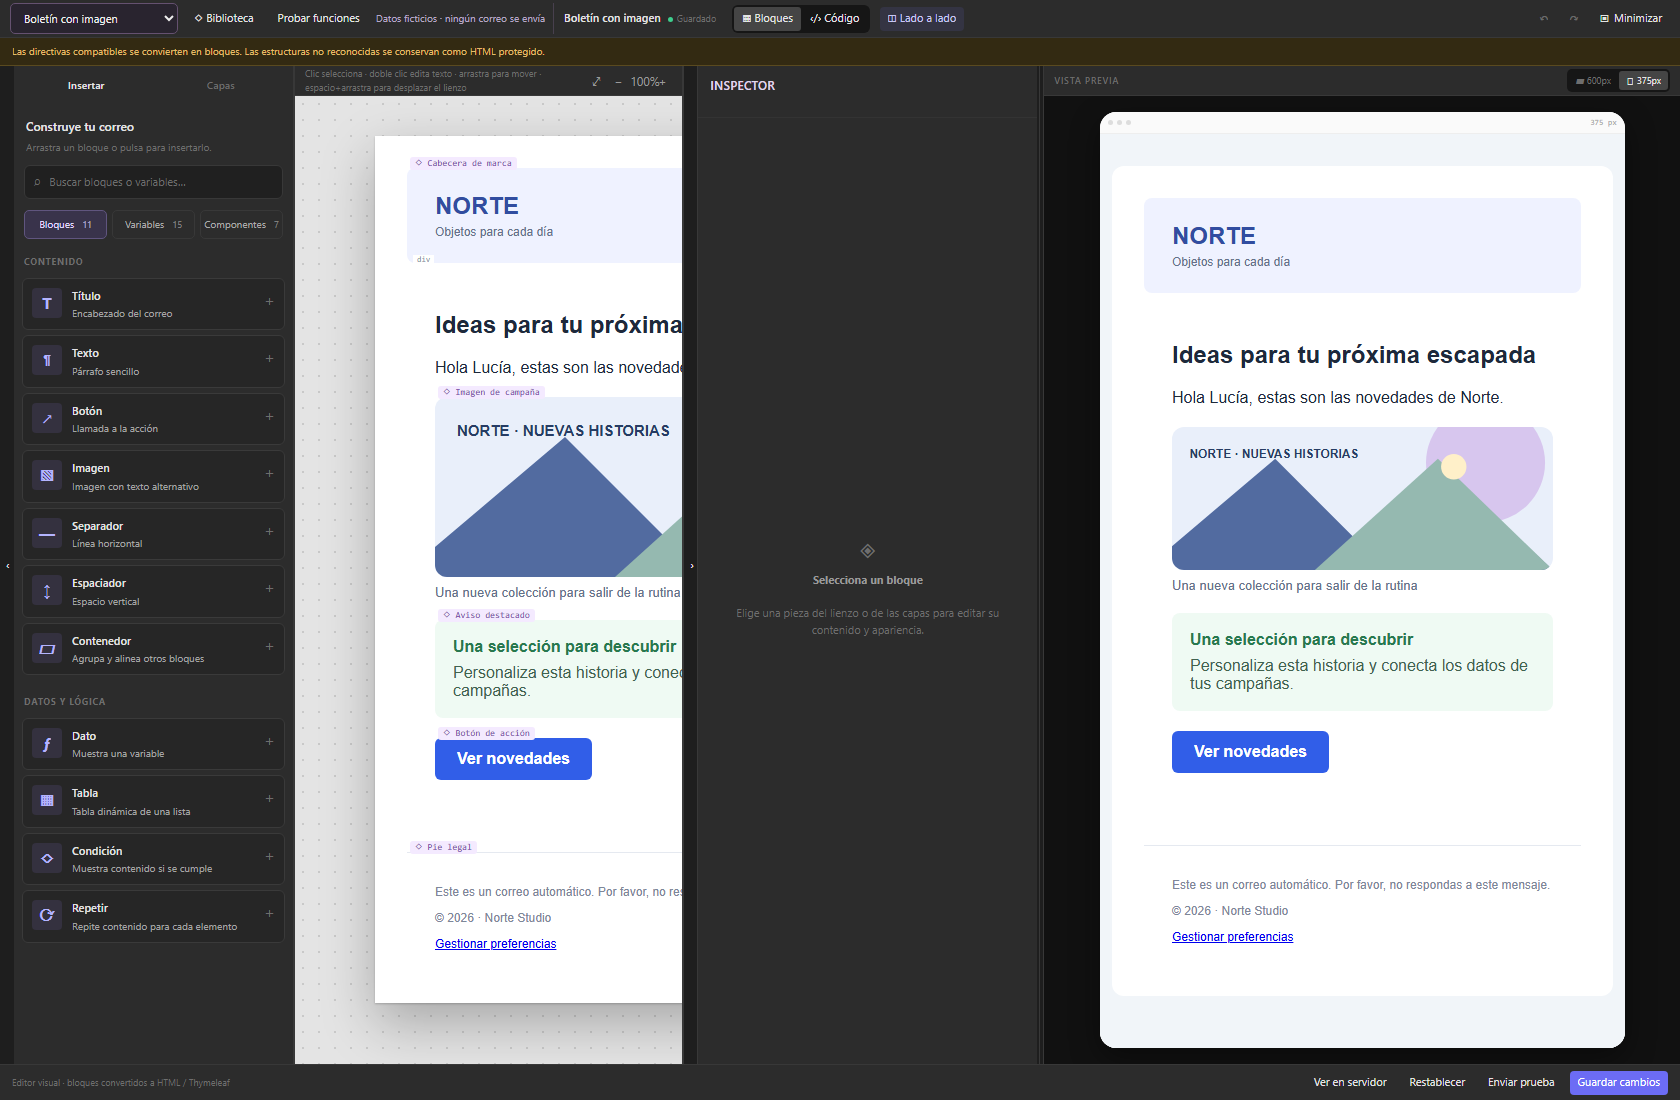
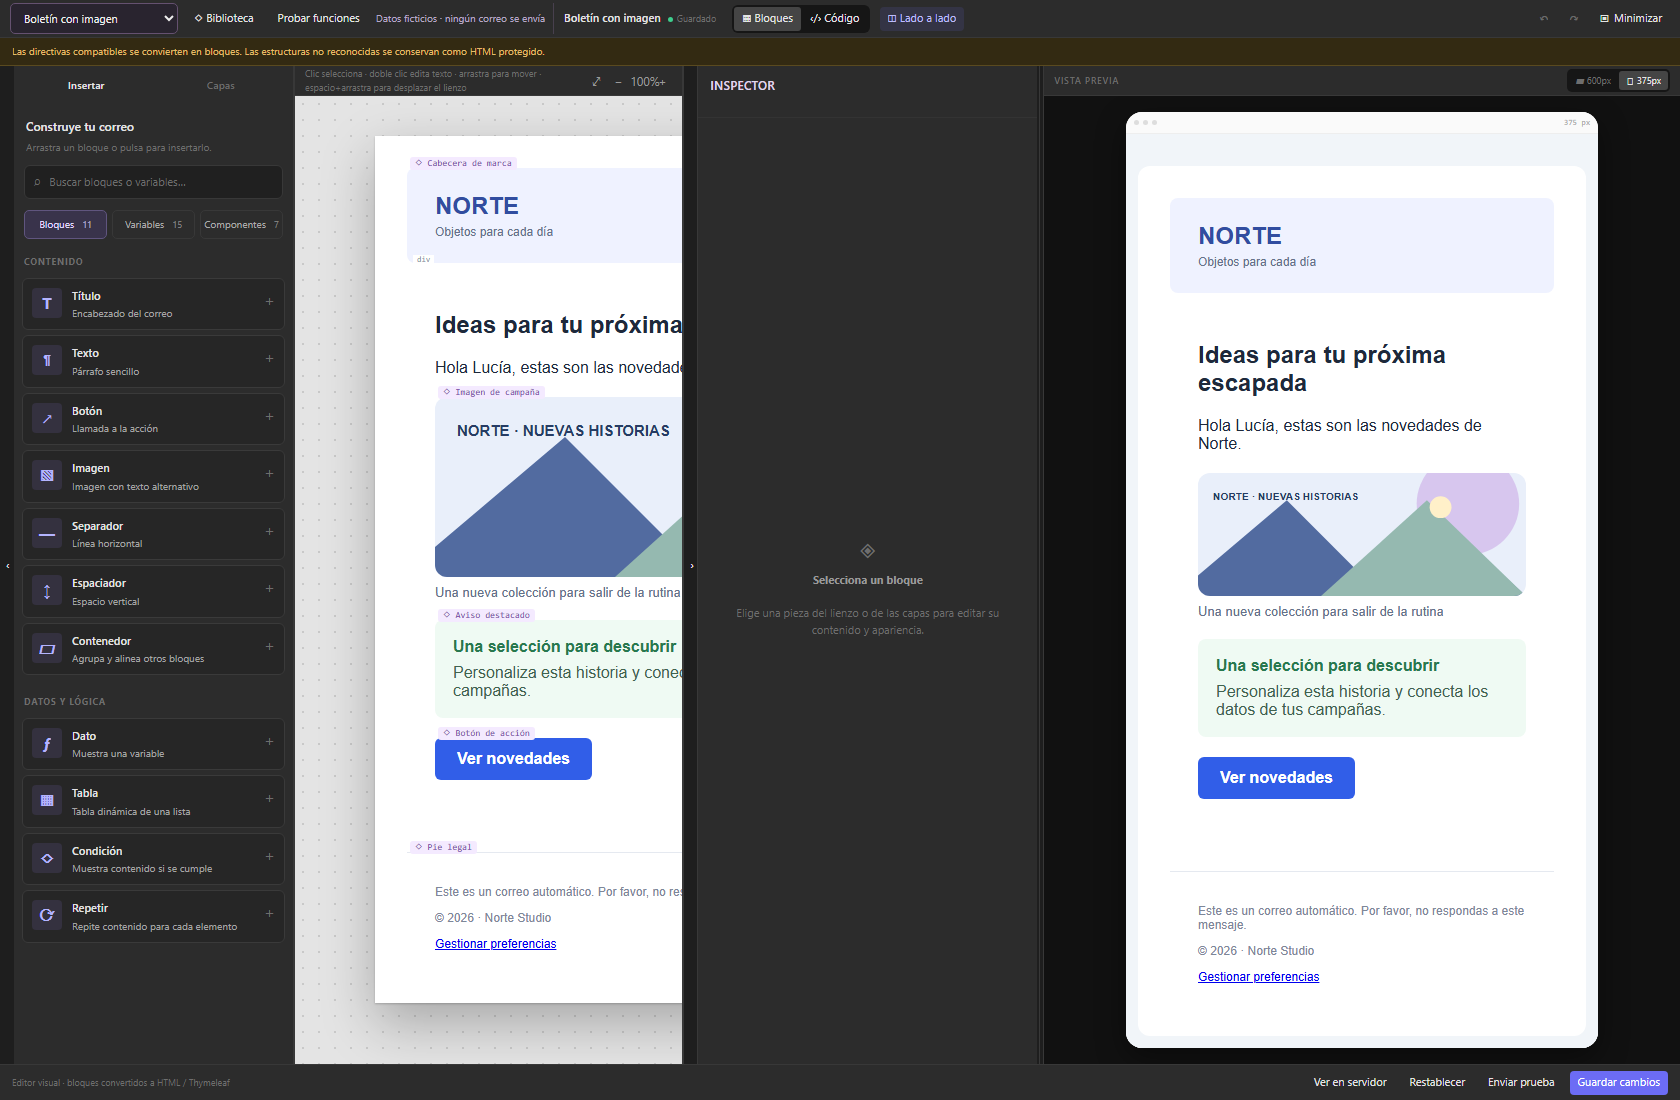
fix(components): checkpoint frame sizing and minimum content height

Changed region(s): [[0.65, 0.0927, 0.9905, 0.9582]]

diff --git a/src/services/emailComponents.ts b/src/services/emailComponents.ts
@@ -3,9 +3,46 @@ import { templateExpression } from "./valueSyntax";
 export type ComponentProperty = {key:string;label:string;type:"text"|"url"|"color"|"boolean"|"number"|"email"|"image"|"date"|"datetime";defaultValue:string};
 export type ComponentValue = {mode:"literal"|"expression";value:string};
 export type EmailComponent = {key:string;name:string;description:string;category:string;html:string;properties:ComponentProperty[]};
-export type ComponentInstance = {componentKey:string;name:string;values:Record<string,ComponentValue>;fallbackHtml:string;properties:ComponentProperty[]};
+export type ComponentInstance = {componentKey:string;name:string;values:Record<string,ComponentValue>;fallbackHtml:string;properties:ComponentProperty[];styles?:Record<string,string>};
 const escape=(value:string)=>value.replace(/[&<>"']/g,c=>({"&":"&amp;","<":"&lt;",">":"&gt;",'"':"&quot;","'":"&#39;"}[c]!));
 const quote=(value:string)=>`'${value.replace(/\\/g,"\\\\").replace(/'/g,"\\'")}'`;
+/** Resize a single visual root while keeping its authored fallback recoverable. */
+function componentContent(source: string, styles: Record<string,string> = {}): string {
+  if (typeof DOMParser === "undefined") return source;
+  const doc = new DOMParser().parseFromString(normalizeTemplateMarkup(source), "text/html");
+  const root = doc.body.firstElementChild as HTMLElement | null;
+  if (!root || doc.body.children.length !== 1 || !["DIV","SECTION","HEADER","FOOTER","ARTICLE","ASIDE","FIGURE"].includes(root.tagName)) return source;
+  const original = root.getAttribute("data-ee-fit-original-style");
+  if (original !== null) { root.setAttribute("style", original); root.removeAttribute("data-ee-fit-original-style"); }
+  const height = styles.height && styles.height !== "auto";
+  const width = styles.width && styles.width !== "auto";
+  if (height || width) {
+    root.setAttribute("data-ee-fit-original-style",root.getAttribute("style") || "");
+    root.style.boxSizing = "border-box";
+    if (width) { root.style.width = "100%"; root.style.maxWidth = "100%"; }
+    if (height) {
+      root.style.height = "100%";
+      root.style.minHeight = "min-content";
+      root.style.flexShrink = "0";
+      if (styles.justifyContent && (!root.style.display || root.style.display === "block")) {
+        root.style.display = "flex";
+        root.style.flexDirection = "column";
+        root.style.justifyContent = styles.justifyContent;
+      }
+    }
+  }
+  return doc.body.innerHTML;
+}
+
+export function componentFrameStyles(instance: ComponentInstance, definition?: EmailComponent): Record<string,string> {
+  const styles = instance.styles || {};
+  if (!styles.height || styles.height === "auto" || typeof DOMParser === "undefined") return styles;
+  const doc = new DOMParser().parseFromString(normalizeTemplateMarkup(definition?.html || instance.fallbackHtml), "text/html");
+  const root = doc.body.firstElementChild;
+  if (doc.body.children.length !== 1 || !root || !["DIV","SECTION","HEADER","FOOTER","ARTICLE","ASIDE","FIGURE"].includes(root.tagName)) return styles;
+  return {...styles,display:"grid",gridTemplateColumns:"minmax(0, 1fr)",gridTemplateRows:"minmax(min-content, 1fr)",minHeight:styles.minHeight || "min-content"};
+}
+
 export function componentHtml(instance:ComponentInstance,definition?:EmailComponent, presentationAttributes = ""):string {
   const properties=definition?.properties??instance.properties;
   const assignments=properties.filter(prop=>/^[\w$]+$/.test(prop.key)).map(prop=>{
@@ -14,7 +51,7 @@ export function componentHtml(instance:ComponentInstance,definition?:EmailCompon
     const literal=prop.type==="boolean"?String(value.value==="true"):prop.type==="number"?(numeric?String(Number(value.value)):"null"):quote(value.value);
     return `${prop.key}=${value.mode==="expression"?(value.value.includes("${")?templateExpression(value.value):value.value):literal}`;
   }).join(", ");
-  return `<div${presentationAttributes} data-ee-component="${escape(instance.componentKey)}" data-ee-component-name="${escape(definition?.name??instance.name)}" data-ee-component-values="${escape(JSON.stringify(instance.values))}" data-ee-component-properties="${escape(JSON.stringify(properties))}"${assignments?` th:with="${escape(assignments)}"`:""}>${definition?.html??instance.fallbackHtml}</div>`;
+  return `<div${presentationAttributes} data-ee-component="${escape(instance.componentKey)}" data-ee-component-name="${escape(definition?.name??instance.name)}" data-ee-component-values="${escape(JSON.stringify(instance.values))}" data-ee-component-properties="${escape(JSON.stringify(properties))}"${assignments?` th:with="${escape(assignments)}"`:""}>${componentContent(definition?.html??instance.fallbackHtml,instance.styles)}</div>`;
 }
 export function readComponent(element:Element):ComponentInstance|undefined {
   const key=element.getAttribute("data-ee-component");
@@ -25,7 +62,7 @@ export function readComponent(element:Element):ComponentInstance|undefined {
     if(!values||typeof values!=="object"||Array.isArray(values)||!Array.isArray(properties))return undefined;
     if(Object.values(values).some((value:any)=>!value||!["literal","expression"].includes(value.mode)||typeof value.value!=="string"))return undefined;
     if(properties.some(prop=>!prop||typeof prop.key!=="string"||typeof prop.defaultValue!=="string"))return undefined;
-    return {componentKey:key,name:element.getAttribute("data-ee-component-name")??key,values,properties,fallbackHtml:element.innerHTML};
+    return {componentKey:key,name:element.getAttribute("data-ee-component-name")??key,values,properties,fallbackHtml:componentContent(element.innerHTML)};
   }catch{return undefined;}
 }
 export function expandComponents(source:string,definitions:EmailComponent[],depth=0):string {
@@ -36,6 +73,7 @@ export function expandComponents(source:string,definitions:EmailComponent[],dept
     if(element.parentElement?.closest("[data-ee-component]"))continue;
     const instance=readComponent(element);
     if(!instance)continue;
+    instance.styles=Object.fromEntries(Array.from((element as HTMLElement).style).map(name=>[name.replace(/-([a-z])/g,(_,letter:string)=>letter.toUpperCase()),(element as HTMLElement).style.getPropertyValue(name)]));
     const definition=definitions.find(item=>item.key===instance.componentKey);
     const rendered=new DOMParser().parseFromString(componentHtml(instance,definition),"text/html").body.firstElementChild!;
     // Presentation belongs to this instance, not to the shared definition.

diff --git a/src/editor/canvasGeometry.ts b/src/editor/canvasGeometry.ts
@@ -18,7 +18,20 @@ export function resizeContext(node: HTMLElement, zoom: number) {
   const font = parseFloat(style.fontSize) || 16;
   const rootFont = parseFloat(getComputedStyle(document.documentElement).fontSize) || 16;
   const viewport = { width: window.innerWidth, height: window.innerHeight };
+  let minimumHeight = 16;
+  if (node.dataset.eeBlockKind === "component") {
+    const content = node.querySelector<HTMLElement>(":scope > div > div");
+    if (content) {
+      const clone = content.cloneNode(true) as HTMLElement;
+      Object.assign(clone.style,{position:"fixed",left:"-10000px",top:"0",visibility:"hidden",width:`${content.getBoundingClientRect().width/zoom}px`,height:"auto",minHeight:"0",maxHeight:"none",font:getComputedStyle(content).font});
+      document.body.appendChild(clone);
+      const cloneStyle = getComputedStyle(clone);
+      minimumHeight = Math.max(16,clone.getBoundingClientRect().height+(parseFloat(cloneStyle.marginTop)||0)+(parseFloat(cloneStyle.marginBottom)||0));
+      clone.remove();
+    }
+  }
   return {
+    minimumHeight,
     parent, box, parentBox, available, width: box.width/zoom, height: box.height/zoom,
     left: parentBox.left + (parent.clientLeft + parseFloat(parentStyle.paddingLeft || "0"))*zoom,
     length: (pixels: number, axis: "width"|"height", authored?: string) => resizedLength(pixels, authored, axis === "width" ? available : parent.clientHeight, font, rootFont, viewport),
@@ -31,7 +44,7 @@ export function resizePatch(block: EmailBlock, geometry: ReturnType<typeof resiz
     styles.width = geometry.length(width, "width", block.styles?.width);
     styles.maxWidth = block.styles?.maxWidth || "100%";
   }
-  if (height !== undefined) styles.height = geometry.length(height, "height", block.styles?.height);
+  if (height !== undefined) styles.height = geometry.length(Math.max(height,geometry.minimumHeight), "height", block.styles?.height);
   if (block.type === "image") {
     styles.objectFit = block.styles?.objectFit || "contain";
     if (width !== undefined && height === undefined) styles.height = block.styles?.height || "auto";

diff --git a/src/components/editor/BlockRenderer.tsx b/src/components/editor/BlockRenderer.tsx
@@ -1,5 +1,5 @@
 import { tableSampleRows, resolveCellTemplate } from "../../services/tableRows";
-import { componentHtml, expandComponents, type EmailComponent } from "../../services/emailComponents";
+import { componentFrameStyles, componentHtml, expandComponents, type EmailComponent } from "../../services/emailComponents";
 import { buildSampleContext, renderThymeleaf } from "../../services/emailTemplateRenderer";
 import React, { useEffect, useRef } from "react";
 import { emailBlocksToHtml, safeUrl, type EmailBlock, type InlineNode } from "../../services/emailBlocks";
@@ -150,8 +150,9 @@ function BlockNodeBody({ block, locals, loopId, common: props, ctx }: {
 }) {
   if (block.type === "component") {
     const definition=ctx.components?.find(item=>item.key===block.componentKey);
-    const html = renderPreviewHtml(componentHtml(block, definition), ctx.tokens, locals, ctx.components);
-    return <div {...props} style={{ ...blockStyle(block), ...props.style }} className={`${props.className} ee-component-instance`} title={`Instancia de ${definition?.name??block.name}`}><span className="ee-component-tag">◇ {definition?.name??block.name}</span><div dangerouslySetInnerHTML={{__html:html}}/></div>;
+    const rendered = renderPreviewHtml(emailBlocksToHtml([block], {components:ctx.components}), ctx.tokens, locals, ctx.components);
+    const html = new DOMParser().parseFromString(rendered,"text/html").body.firstElementChild?.innerHTML || "";
+    return <div {...props} style={{ ...componentFrameStyles(block,definition), ...props.style }} className={`${props.className} ee-component-instance`} title={`Instancia de ${definition?.name??block.name}`}><span className="ee-component-tag">◇ {definition?.name??block.name}</span><div style={{display:"contents"}} dangerouslySetInnerHTML={{__html:html}}/></div>;
   }
 
   if (block.type === "html") {

diff --git a/src/services/emailBlocks.ts b/src/services/emailBlocks.ts
@@ -1,7 +1,7 @@
 import { normalizeTemplateMarkup } from "./templateMarkup";
 import type { EmailToken } from "./emailTemplateRenderer";
 import { tableRowGroups, columnExpression } from "./tableRows";
-import { componentHtml, readComponent, type ComponentInstance, type EmailComponent } from "./emailComponents";
+import { componentFrameStyles, componentHtml, readComponent, type ComponentInstance, type EmailComponent } from "./emailComponents";
 import { templateExpression } from "./valueSyntax";
 
 export type TableCell = { mode: "text" | "expression" | "template"; value: string };
@@ -176,7 +176,7 @@ export function emailBlocksToHtml(blocks: EmailBlock[], options: { editorMetadat
   collectClassRules(blocks);
   const markup = blocks.map(block => {
     switch (block.type) {
-      case "component": return componentHtml(block,options.components?.find(component=>component.key===block.componentKey), attributesFor({...block,attributes:Object.fromEntries(Object.entries(block.attributes || {}).filter(([name])=>!name.startsWith("data-ee-component") && name!=="th:with"))}, {}, !!options.editorMetadata));
+      case "component": return componentHtml(block,options.components?.find(component=>component.key===block.componentKey), attributesFor({...block,styles:componentFrameStyles(block,options.components?.find(component=>component.key===block.componentKey)),attributes:Object.fromEntries(Object.entries(block.attributes || {}).filter(([name])=>!name.startsWith("data-ee-component") && name!=="th:with"))}, {}, !!options.editorMetadata));
       case "html": return block.html;
       case "heading": {
         const level = block.level ?? 2;

diff --git a/src/services/emailComponents.test.ts b/src/services/emailComponents.test.ts
@@ -67,3 +67,20 @@ describe("linked email components",()=>{
     expect(doc.querySelector("section p")?.textContent).toBe("${nombre}");
   });
 });
+
+it("fits component backgrounds to resized frames and restores original fallback styles",()=>{
+  const source=emailBlocksToHtml([{id:'resized',type:'component',...instance,styles:{width:'360px',height:'200px'}}],{components:[{...definition,html:'<div style="padding:24px;background:#eff2ff"><strong>Cabecera</strong></div>'}]});
+  const parsed=new DOMParser().parseFromString(source,'text/html');
+  const root=parsed.querySelector<HTMLElement>('[data-ee-component] > div')!;
+  expect(root.style.height).toBe('100%');
+  expect(root.style.width).toBe('100%');
+  expect(root.style.boxSizing).toBe('border-box');
+  const reopened=parseEmailHtmlToBlocks(source)[0];
+  expect(reopened.type).toBe('component');
+  if(reopened.type!=='component')throw new Error('Expected component');
+  expect(reopened.fallbackHtml).not.toContain('data-ee-fit-original-style');
+  const reset=emailBlocksToHtml([{...reopened,styles:{}}]);
+  const resetRoot=new DOMParser().parseFromString(reset,'text/html').querySelector<HTMLElement>('[data-ee-component] > div')!;
+  expect(resetRoot.style.height).toBe('');
+  expect(resetRoot.style.padding).toBe('24px');
+});
